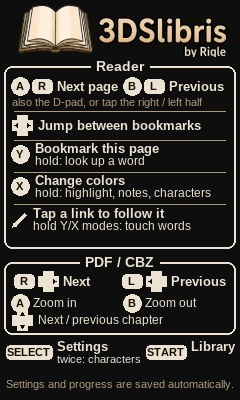
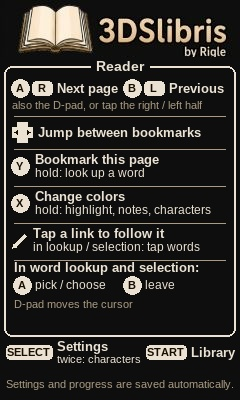
ui: separate controls splashes for the reader and PDF/CBZ
The splash now shows only the controls for the kind of book: reflowable
books get the reader's (page turns, bookmarks, Y/X and their hold modes,
links, what A and B do in lookup and selection), PDF/CBZ/XPS get the
fixed-layout viewer's (pages, chapters, zoom, the touch preview and
Circle Pad panning) in 3DSLibris_*_fixed.jpg. The opening screen picks
by the book being opened and settings by the open book; the library
shows the reader's. TextRenderer caches one variant and reloads when it
changes.

Changed region(s): [[0.0, 0.18, 0.9917, 0.9]]

diff --git a/scripts/build_splash.py b/scripts/build_splash.py
@@ -1,9 +1,10 @@
 #!/usr/bin/env python3
-"""Draws the controls splash shown on the top screen (240x400, portrait).
+"""Draws the controls splashes shown on the top screen (240x400, portrait).
 
     python3 scripts/build_splash.py [--preview out.png]
 
-Writes sdmc/3ds/3dslibris/resources/3DSLibris_{light,dark}_small.jpg. The
+Writes sdmc/3ds/3dslibris/resources/3DSLibris_{light,dark}_small.jpg (the
+reader's controls) and 3DSLibris_{light,dark}_fixed.jpg (PDF/CBZ). The
 logo header (book, "3DSlibris", "by Rigle") is kept from the current
 images; everything below it is drawn here, so the controls can be
 updated when they change. Needs Pillow.
@@ -100,6 +101,14 @@ class Painter:
                        fill=ink)
         return cx + 7
 
+    def circle_pad(self, cx, cy):
+        r = 9
+        self.d.ellipse((cx - r, cy - r, cx + r, cy + r),
+                       fill=self.t["key_fill"], outline=self.t["ink"], width=1)
+        self.d.ellipse((cx - 4, cy - 4, cx + 4, cy + 4),
+                       outline=self.t["key_ink"], width=1)
+        return cx + r
+
     def section(self, y0, y1, title):
         ink = self.t["ink"]
         self.d.rounded_rectangle((4, y0, W - 5, y1), radius=8, outline=ink,
@@ -113,76 +122,122 @@ class Painter:
         self.d.line([(14, y), (W - 15, y)], fill=self.t["soft"], width=1)
 
 
-def draw(theme_name):
+def base_image(theme_name):
     t = THEMES[theme_name]
     src = Image.open(os.path.join(RES, "3DSLibris_%s_small.jpg" % theme_name))
     img = Image.new("RGB", (W, H), t["bg"])
     img.paste(src.convert("RGB").crop((0, 0, W, HEADER_H)), (0, 0))
-    p = Painter(img, t)
+    return img, Painter(img, t)
 
-    # Reader.
-    p.section(66, 248, "Reader")
-    y = 86
+
+def footer(p, select_hint):
+    y = 352
+    x = p.shoulder_key(6, y, "SELECT", 46) + 5
+    p.text((x, y - 6 if select_hint else y), "Settings", BOLD)
+    if select_hint:
+        p.text((x, y + 7), select_hint, SMALL)
+    x = p.shoulder_key(146, y, "START", 40) + 5
+    p.text((x, y), "Library", BOLD)
+    p.text((W / 2, 384), "Settings and progress are saved automatically.",
+           SMALL, "soft", anchor="mm")
+
+
+def draw_reader(theme_name):
+    """EPUB, MOBI, FB2, TXT and the other reflowable formats."""
+    img, p = base_image(theme_name)
+    p.section(66, 336, "Reader")
+
+    y = 88
     x = p.round_key(20, y, "A") + 3
     x = p.shoulder_key(x, y, "R") + 5
     p.text((x, y), "Next page", BOLD)
     x = p.round_key(132, y, "B") + 3
     x = p.shoulder_key(x, y, "L") + 5
     p.text((x, y), "Previous", BOLD)
-    p.text((12, y + 16), "also the D-pad, or tap the right / left half",
+    p.text((12, y + 17), "also the D-pad, or tap the right / left half",
            SMALL, "soft")
-    p.rule(y + 25)
+    p.rule(y + 28)
 
-    y = 125
+    y = 132
     x = p.dpad(22, y, "lr") + 6
     p.text((x, y), "Jump between bookmarks", BOLD)
-    p.rule(y + 15)
+    p.rule(y + 17)
 
-    y = 154
+    y = 166
     x = p.round_key(20, y, "Y") + 6
-    p.text((x, y - 6), "Bookmark this page", BOLD)
+    p.text((x, y - 7), "Bookmark this page", BOLD)
     p.text((x, y + 7), "hold: look up a word", REG)
-    p.rule(y + 18)
+    p.rule(y + 20)
 
-    y = 186
+    y = 203
     x = p.round_key(20, y, "X") + 6
-    p.text((x, y - 6), "Change colors", BOLD)
+    p.text((x, y - 7), "Change colors", BOLD)
     p.text((x, y + 7), "hold: highlight, notes, characters", REG)
+    p.rule(y + 20)
+
+    y = 240
+    x = p.stylus(20, y) + 6
+    p.text((x, y - 7), "Tap a link to follow it", BOLD)
+    p.text((x, y + 7), "in lookup / selection: tap words", REG)
+    p.rule(y + 20)
+
+    y = 274
+    p.text((14, y - 7), "In word lookup and selection:", BOLD)
+    x = p.round_key(22, y + 11, "A") + 4
+    p.text((x, y + 11), "pick / choose", REG)
+    x = p.round_key(132, y + 11, "B") + 4
+    p.text((x, y + 11), "leave", REG)
+    p.text((14, y + 30), "D-pad moves the cursor", SMALL, "soft")
+
+    footer(p, "twice: characters")
+    return img
+
+
+def draw_fixed(theme_name):
+    """PDF, XPS and CBZ."""
+    img, p = base_image(theme_name)
+    p.section(66, 306, "PDF / CBZ")
+
+    y = 90
+    x = p.shoulder_key(14, y, "R") + 3
+    x = p.dpad(x + 13, y, "r") + 6
+    p.text((x, y), "Next page", BOLD)
     p.rule(y + 18)
 
-    y = 219
-    x = p.stylus(20, y) + 6
-    p.text((x, y - 6), "Tap a link to follow it", BOLD)
-    p.text((x, y + 7), "hold Y/X modes: touch words", REG)
+    y = 126
+    x = p.shoulder_key(14, y, "L") + 3
+    x = p.dpad(x + 13, y, "l") + 6
+    p.text((x, y), "Previous page", BOLD)
+    p.rule(y + 18)
 
-    # PDF / CBZ.
-    p.section(262, 334, "PDF / CBZ")
-    y = 281
-    x = p.shoulder_key(14, y, "R") + 3
-    x = p.dpad(x + 11, y, "r") + 5
-    p.text((x, y), "Next", BOLD)
-    x = p.shoulder_key(122, y, "L") + 3
-    x = p.dpad(x + 11, y, "l") + 5
-    p.text((x, y), "Previous", BOLD)
-    y = 303
-    x = p.round_key(20, y, "A") + 4
-    p.text((x, y), "Zoom in", REG)
-    x = p.round_key(132, y, "B") + 4
-    p.text((x, y), "Zoom out", REG)
-    y = 320
+    y = 162
     x = p.dpad(22, y, "ud") + 6
-    p.text((x, y), "Next / previous chapter", REG)
+    p.text((x, y), "Next / previous chapter", BOLD)
+    p.rule(y + 18)
 
-    # Footer.
-    y = 352
-    x = p.shoulder_key(6, y, "SELECT", 46) + 5
-    p.text((x, y - 6), "Settings", BOLD)
-    p.text((x, y + 7), "twice: characters", SMALL)
-    x = p.shoulder_key(146, y, "START", 40) + 5
-    p.text((x, y - 6), "Library", BOLD)
-    p.text((W / 2, 384), "Settings and progress are saved automatically.",
-           SMALL, "soft", anchor="mm")
+    y = 198
+    x = p.round_key(20, y, "A") + 6
+    p.text((x, y), "Zoom in", BOLD)
+    x = p.round_key(132, y, "B") + 6
+    p.text((x, y), "Zoom out", BOLD)
+    p.rule(y + 18)
+
+    y = 236
+    x = p.stylus(20, y) + 6
+    p.text((x, y - 7), "Touch the page preview", BOLD)
+    p.text((x, y + 7), "to move the zoomed view", REG)
+    p.rule(y + 21)
+
+    y = 276
+    x = p.circle_pad(20, y) + 6
+    p.text((x, y - 7), "Circle Pad: pan", BOLD)
+    p.text((x, y + 7), "C-Stick too on New 3DS", REG)
+
+    footer(p, None)
     return img
+
+
+VARIANTS = {"small": draw_reader, "fixed": draw_fixed}
 
 
 def main():
@@ -191,15 +246,19 @@ def main():
         preview = sys.argv[2]
     elif len(sys.argv) != 1:
         sys.exit(__doc__)
-    images = {name: draw(name) for name in THEMES}
+    images = {}
+    for variant, draw in VARIANTS.items():
+        for theme in THEMES:
+            images[(variant, theme)] = draw(theme)
     if preview:
-        sheet = Image.new("RGB", (W * 2 + 8, H), (128, 128, 128))
-        sheet.paste(images["light"], (0, 0))
-        sheet.paste(images["dark"], (W + 8, 0))
+        sheet = Image.new("RGB", (W * 4 + 24, H), (128, 128, 128))
+        for i, key in enumerate([("small", "light"), ("small", "dark"),
+                                 ("fixed", "light"), ("fixed", "dark")]):
+            sheet.paste(images[key], (i * (W + 8), 0))
         sheet.save(preview)
         return
-    for name, img in images.items():
-        img.save(os.path.join(RES, "3DSLibris_%s_small.jpg" % name),
+    for (variant, theme), img in images.items():
+        img.save(os.path.join(RES, "3DSLibris_%s_%s.jpg" % (theme, variant)),
                  quality=95)
 
 

diff --git a/source/ui/text_renderer.cpp b/source/ui/text_renderer.cpp
@@ -62,7 +62,7 @@ TextRenderer::TextRenderer(Text *owner)
       hit(false), justify(false), colorMode(0), splash_light_attempted(false),
       splash_light_loaded(false), splash_light_pixels(nullptr),
       splash_dark_attempted(false), splash_dark_loaded(false),
-      splash_dark_pixels(nullptr), stats_hits(0), stats_misses(0),
+      splash_dark_pixels(nullptr), splash_fixed_layout(false), stats_hits(0), stats_misses(0),
       auto_wrap_enabled(true), clip_to_content_enabled(false), script_scale_(1.0f) {
   pen.x = 0;
   pen.y = 0;
@@ -91,17 +91,20 @@ void TextRenderer::GetPen(u16 &x, u16 &y) {
 void TextRenderer::SetColorMode(int state) {
   int old_dark = (colorMode == 1 || colorMode == 4 || colorMode == 5) ? 1 : 0;
   int new_dark = (state == 1 || state == 4 || state == 5) ? 1 : 0;
-  if (old_dark != new_dark) {
-    delete[] splash_light_pixels;
-    splash_light_pixels = nullptr;
-    splash_light_attempted = false;
-    splash_light_loaded = false;
-    delete[] splash_dark_pixels;
-    splash_dark_pixels = nullptr;
-    splash_dark_attempted = false;
-    splash_dark_loaded = false;
-  }
+  if (old_dark != new_dark)
+    ResetSplashCache();
   colorMode = state;
+}
+
+void TextRenderer::ResetSplashCache() {
+  delete[] splash_light_pixels;
+  splash_light_pixels = nullptr;
+  splash_light_attempted = false;
+  splash_light_loaded = false;
+  delete[] splash_dark_pixels;
+  splash_dark_pixels = nullptr;
+  splash_dark_attempted = false;
+  splash_dark_loaded = false;
 }
 
 int TextRenderer::GetColorMode() { return colorMode; }
@@ -394,7 +397,7 @@ bool TextRenderer::EnsureSplashLoaded(bool dark) {
 
   const std::string sdmc_resource_dir = paths::GetResourceDir();
   const std::vector<std::string> splash_paths = paths::GetSplashPathList();
-  const std::vector<std::string> candidates = dark
+  std::vector<std::string> candidates = dark
       ? std::vector<std::string>{
             "romfs:/3ds/3dslibris/resources/3DSLibris_dark_small.jpg",
             sdmc_resource_dir + "/3DSLibris_dark_small.jpg",
@@ -405,6 +408,14 @@ bool TextRenderer::EnsureSplashLoaded(bool dark) {
             splash_paths[0],
             splash_paths[1],
         };
+  if (splash_fixed_layout) {
+    // The PDF/CBZ controls; the reader's splash if they're missing.
+    const char *name =
+        dark ? "/3DSLibris_dark_fixed.jpg" : "/3DSLibris_light_fixed.jpg";
+    candidates.insert(candidates.begin(), sdmc_resource_dir + name);
+    candidates.insert(candidates.begin(),
+                      std::string("romfs:/3ds/3dslibris/resources") + name);
+  }
 
   int srcW = 0;
   int srcH = 0;
@@ -502,9 +513,13 @@ void TextRenderer::DrawFallbackSplash() {
   SetStyle(savedStyle);
 }
 
-void TextRenderer::PrintSplash(u16 *screen) {
+void TextRenderer::PrintSplash(u16 *screen, bool fixed_layout) {
   auto s = GetScreen();
   int savedColorMode = GetColorMode();
+  if (fixed_layout != splash_fixed_layout) {
+    ResetSplashCache();
+    splash_fixed_layout = fixed_layout;
+  }
 
   SetScreen(screen);
   ClearScreen();

diff --git a/include/ui/text_renderer.h b/include/ui/text_renderer.h
@@ -60,7 +60,8 @@ public:
 
   bool BlitToFramebuffer();
 
-  void PrintSplash(u16 *screen);
+  // fixed_layout: the PDF/CBZ controls splash instead of the reader's.
+  void PrintSplash(u16 *screen, bool fixed_layout = false);
 
   int GetDisplayWidth() const;
   int GetDisplayHeight() const;
@@ -106,6 +107,7 @@ private:
   bool splash_dark_attempted;
   bool splash_dark_loaded;
   u16 *splash_dark_pixels;
+  bool splash_fixed_layout; // which splash the cached pixels are
 
   int stats_hits;
   int stats_misses;
@@ -114,5 +116,6 @@ private:
   float script_scale_;
 
   bool EnsureSplashLoaded(bool dark);
+  void ResetSplashCache();
   void DrawFallbackSplash();
 };

diff --git a/source/settings/app_prefs.cpp b/source/settings/app_prefs.cpp
@@ -449,7 +449,11 @@ void SettingsController::PrefsDraw() {
     }
   }
 
-  ts->PrintSplash(ts->screenleft);
+  // The controls for the open book's kind (PDF/CBZ or reflowable).
+  Book *splash_book = app_.IsBookSettingsContext() ? app_.GetCurrentBook()
+                                                   : NULL;
+  ts->PrintSplash(ts->screenleft,
+                  splash_book && splash_book->IsFixedLayout());
   if (app_.IsBookSettingsContext() && app_.IsPrefsLayoutNoticePending() &&
       app_.GetCurrentBook() && app_.BookNeedsRelayout(app_.GetCurrentBook())) {
     const u8 savedPixelSize = ts->GetPixelSize();

diff --git a/source/reader/app_book_internal.cpp b/source/reader/app_book_internal.cpp
@@ -194,7 +194,7 @@ void DrawOpeningSplashImpl(App *app, unsigned spine_done, unsigned spine_total,
   u16 *savedScreen = app->ts->GetScreen();
 
   app->ts->SetStyle(TEXT_STYLE_BROWSER);
-  app->ts->PrintSplash(app->ts->screenleft);
+  app->ts->PrintSplash(app->ts->screenleft, selected->IsFixedLayout());
 
   app->ts->SetScreen(app->ts->screenright);
   app->ts->ClearScreen();

diff --git a/include/ui/text.h b/include/ui/text.h
@@ -160,7 +160,8 @@ public:
   bool PrintNewLine(void);
   void PrintString(const char *string);
   void PrintString(const char *string, u8 style);
-  void PrintSplash(u16 *screen);
+  // fixed_layout: the PDF/CBZ controls splash instead of the reader's.
+  void PrintSplash(u16 *screen, bool fixed_layout = false);
 
 private:
   friend class FontManager;

diff --git a/source/ui/text.cpp b/source/ui/text.cpp
@@ -282,7 +282,9 @@ void Text::PrintString(const char *string, u8 style) {
   tr->PrintString(string, style);
 }
 
-void Text::PrintSplash(u16 *s) { tr->PrintSplash(s); }
+void Text::PrintSplash(u16 *s, bool fixed_layout) {
+  tr->PrintSplash(s, fixed_layout);
+}
 
 u8 Text::GetCharCode(const char *utf8, u32 *ucs) {
   if (!utf8 || !ucs || !utf8[0])
